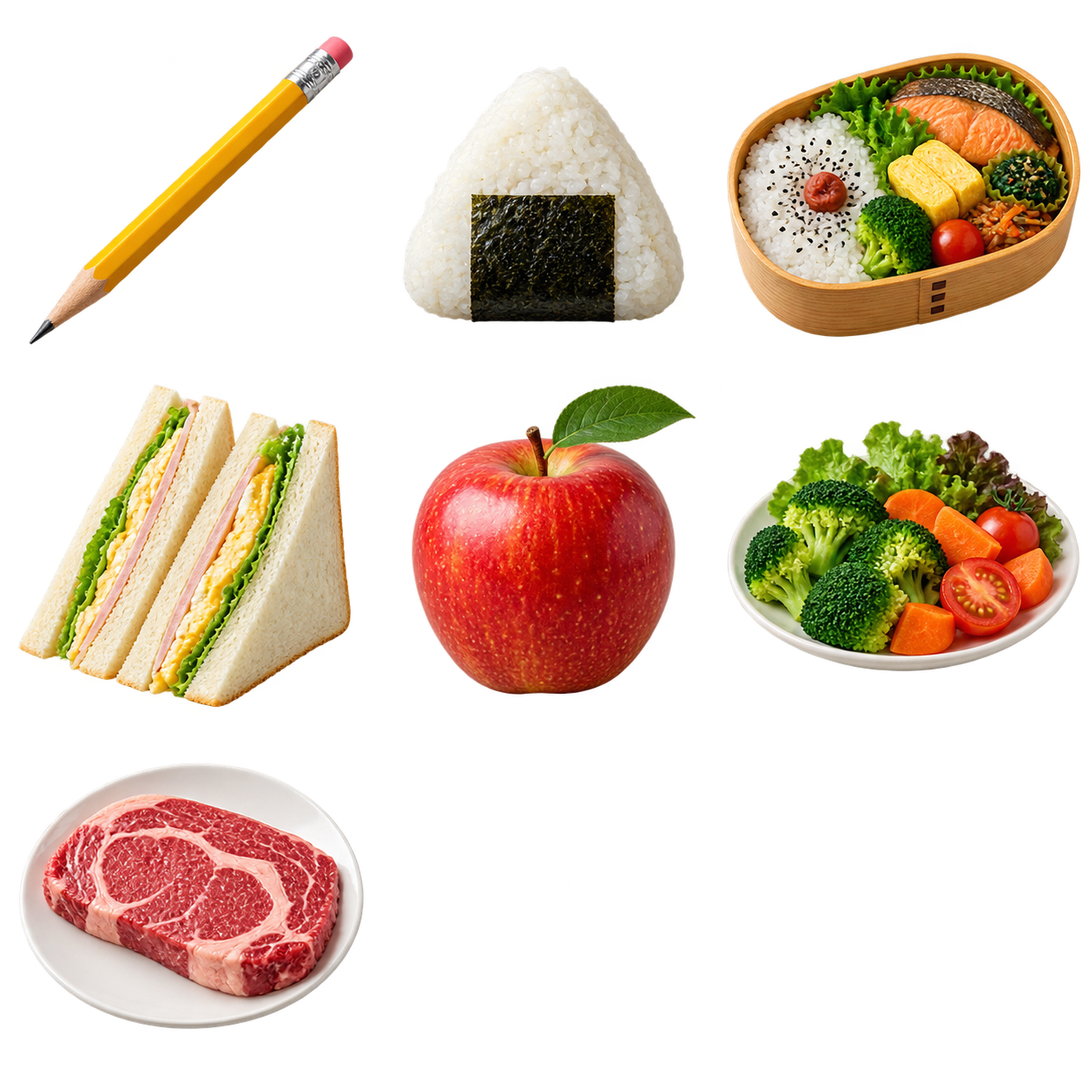
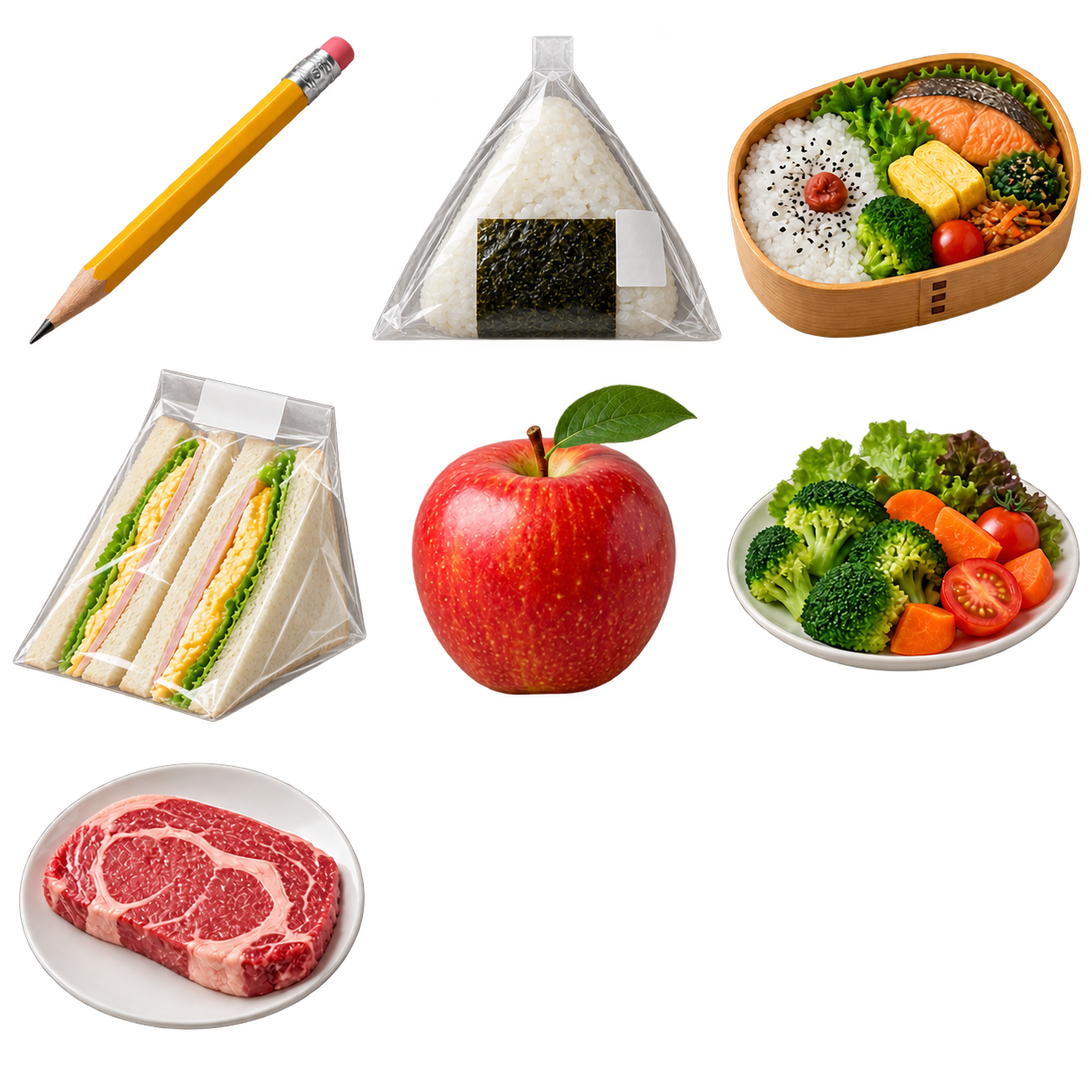
Refine Lesson 2 visuals and require demonstrative price responses

diff --git a/practice2-next.js b/practice2-next.js
@@ -10,7 +10,7 @@ const PracticeNext = (()=>{
         {hira:'たけし',kanji:'たけし',romaji:'Takeshi',meaning:'Takeshi (green sweater)',kind:'person-takeshi'},
         {hira:'ロバート',kanji:'ロバート',romaji:'Robāto',meaning:'Robert (red sweater)',kind:'person-robert'}
     ];
-    const readings=[['弁当','べんとう'],['六百円','ろっぴゃくえん'],['九百円','きゅうひゃくえん'],['四百円','よんひゃくえん'],['帽子','ぼうし'],['四千円','よんせんえん'],['人','ひと'],['誰','だれ'],['私','わたし'],['武','たけし'],['三万円','さんまんえん'],['3万円','さんまんえん'],['3千円','さんぜんえん'],['2千円','にせんえん'],['3百円','さんびゃくえん'],['円','えん'],['30000円','さんまんえん'],['30,000円','さんまんえん'],['三千円','さんぜんえん'],['3000円','さんぜんえん'],['3,000円','さんぜんえん'],['二千円','にせんえん'],['2000円','にせんえん'],['2,000円','にせんえん'],['三百円','さんびゃくえん'],['300円','さんびゃくえん'],['千円','せんえん']];
+    const readings=[['五千円','ごせんえん'],['六千円','ろくせんえん'],['八千円','はっせんえん'],['九千円','きゅうせんえん'],['一万円','いちまんえん'],['弁当','べんとう'],['六百円','ろっぴゃくえん'],['九百円','きゅうひゃくえん'],['四百円','よんひゃくえん'],['帽子','ぼうし'],['四千円','よんせんえん'],['人','ひと'],['誰','だれ'],['私','わたし'],['武','たけし'],['三万円','さんまんえん'],['3万円','さんまんえん'],['3千円','さんぜんえん'],['2千円','にせんえん'],['3百円','さんびゃくえん'],['円','えん'],['30000円','さんまんえん'],['30,000円','さんまんえん'],['三千円','さんぜんえん'],['3000円','さんぜんえん'],['3,000円','さんぜんえん'],['二千円','にせんえん'],['2000円','にせんえん'],['2,000円','にせんえん'],['三百円','さんびゃくえん'],['300円','さんびゃくえん'],['千円','せんえん']];
     return {items:[...Practice21.items,...places,...people],places,people,readings};
 })();
 // Practice 2.2 / 2.3: visual demonstratives. Recorder/settings derived from Practice 1.2.
@@ -300,7 +300,7 @@ function stopAllPlayback() {
 // このページの語彙の読みを正規化する。
 function convertToHiragana(text) {
     let value=String(text??'');
-    value=value.replace(/(\d[\d,]*)(?:円|えん)/g,(full,amount)=>({30000:'さんまんえん',3000:'さんぜんえん',2000:'にせんえん',300:'さんびゃくえん',1000:'せんえん',4000:'よんせんえん',600:'ろっぴゃくえん',900:'きゅうひゃくえん'}[Number(amount.replace(/,/g,''))]||full));
+    value=value.replace(/(\d[\d,]*)(?:円|えん)/g,(full,amount)=>({30000:'さんまんえん',3000:'さんぜんえん',2000:'にせんえん',300:'さんびゃくえん',1000:'せんえん',4000:'よんせんえん',600:'ろっぴゃくえん',900:'きゅうひゃくえん',5000:'ごせんえん',6000:'ろくせんえん',8000:'はっせんえん',9000:'きゅうせんえん',10000:'いちまんえん'}[Number(amount.replace(/,/g,''))]||full));
     for(const [from,to] of [...PracticeNext.items.map(o=>[o.kanji,o.hira]),...PracticeNext.readings].sort((a,b)=>b[0].length-a[0].length)) value=value.split(from).join(to);
     return value.replace(/鞄/g,'かばん').replace(/何/g,'なに');
 }
@@ -1215,8 +1215,8 @@ function practice2ShowNotice(resultSpan, message) {
     });
     const merchandise=(kind)=>{
         const base={bag:['かばん','カバン','kaban','bag'],clock:['とけい','時計','tokei','clock / watch'],onigiri:['おにぎり','おにぎり','onigiri','rice ball'],bento:['おべんとう','お弁当','obentō','boxed lunch']}[kind];
-        const values=kind==='onigiri'?[300,600,900]:kind==='bento'?[1000,2000,3000]:[1000,3000,4000];
-        const names={300:['さんびゃくえん','三百円'],600:['ろっぴゃくえん','六百円'],900:['きゅうひゃくえん','九百円'],1000:['せんえん','千円'],2000:['にせんえん','二千円'],3000:['さんぜんえん','三千円'],4000:['よんせんえん','四千円']};
+        const values=kind==='onigiri'?[300,600,900]:kind==='bento'?[1000,2000,3000]:kind==='clock'?[6000,9000,10000]:[2000,5000,8000];
+        const names={5000:['ごせんえん','五千円'],6000:['ろくせんえん','六千円'],8000:['はっせんえん','八千円'],9000:['きゅうせんえん','九千円'],10000:['いちまんえん','一万円'],300:['さんびゃくえん','三百円'],600:['ろっぴゃくえん','六百円'],900:['きゅうひゃくえん','九百円'],1000:['せんえん','千円'],2000:['にせんえん','二千円'],3000:['さんぜんえん','三千円'],4000:['よんせんえん','四千円']};
         return values.map((priceNumber,i)=>({kind,hira:base[0],kanji:base[1],romaji:base[2],meaning:base[3],zone:['A','B','far'][i],photoKind:kind,priceNumber,priceHira:names[priceNumber][0],priceKanji:names[priceNumber][1]}));
     };
     const places=()=>PracticeNext.places.map(o=>({...o}));
@@ -1258,6 +1258,12 @@ function practice2ShowNotice(resultSpan, message) {
         image.alt=!is22?'Three comic panels: A is on the first floor at the bank, B on the second floor at the cafe, and neither is on the third floor at the library.':people?'A is seated on the left and B on the right. Mary is near A, Takeshi is near B, and Robert is far from both.':hats?'Rear view of A on the left and B on the right, with a baseball cap near A, a sun hat near B, and a fedora on the upper central shelf.':'A stands on the left beside a nearby shelf, B stands on the right beside another nearby shelf, and a third shelf is far from both at the back of the shop.';
         if(photoKind)image.alt=`A stands on the left and B on the right, seen from behind. ${photoKind==='onigiri'?'Three groups of two rice balls':photoKind==='bento'?'Three groups of two boxed lunches':photoKind==='bag'?'Three differently shaped bags':'Three differently shaped clocks and watches'}: one near A, one near B, and one on the upper shelf far from both.`;
         image.width=shop?1774:is22?1536:2172;image.height=shop?887:is22?1024:724;stage.append(image);
+        if(is22&&example&&!people) {
+            for(const zone of ['A','B','far']) {
+                const reach=node('div','p2x-reach');reach.dataset.reach=zone;reach.setAttribute('aria-hidden','true');stage.append(reach);
+                const foreground=node('img','p2x-photo p2x-reach-foreground');foreground.src=image.src;foreground.alt='';foreground.dataset.zone=zone;foreground.setAttribute('aria-hidden','true');stage.append(foreground);
+            }
+        }
         if(!is22) {
             PracticeNext.places.forEach((place,i)=>{
                 const label=node('div','p2x-floor-label');label.dataset.zone=place.zone;
@@ -1311,7 +1317,14 @@ function practice2ShowNotice(resultSpan, message) {
             }
         }
         if(which) {
-            const guide=node('div','p2x-unknown-guide');guide.append(node('strong','','ど：'),node('span','','Asking about the unknown'));picture.append(guide);
+            if(is22) {
+                const guide=node('div','p21-which-guide');
+                const heading=node('strong');heading.append(node('span','p21-question-sound','ど：'),node('span','p21-question-description','Asking about the unknown'));guide.append(heading);
+                guide.insertAdjacentHTML('afterbegin','<svg class="p21-thought-cloud" viewBox="0 0 300 110" preserveAspectRatio="none" aria-hidden="true"><path d="M35 20C35 7 65 2 82 12C96-1 130-1 145 10C165-1 197 1 208 13C230 5 261 13 261 28C286 30 295 50 279 62C291 78 270 92 248 87C231 101 200 96 189 87C170 99 139 99 124 88C102 99 72 96 62 85C34 91 12 78 21 61C4 45 10 26 35 20Z"/></svg>');
+                const dots=node('span','p21-thought-dots');dots.setAttribute('aria-hidden','true');stage.append(guide,dots);
+            } else {
+                const guide=node('div','p2x-unknown-guide');guide.append(node('strong','','ど：'),node('span','','Asking about the unknown'));picture.append(guide);
+            }
         }
         if(hats)stage.append(context);else picture.append(context);picture.append(stage);if(example&&!hats)picture.append(audioGrid);container.append(picture);
         function select(speaker,zone) {
@@ -1363,7 +1376,7 @@ function practice2ShowNotice(resultSpan, message) {
             }
         }
         box.append(list);d1.append(box);selectExample('A','A');
-        if(is22)renderPriceDialogue(d1,selectExample,exObjects);
+        if(is22)renderPriceDialogue(d1);
         else {
         panel(d1,is22?'Drill 1: この・その・あの + noun':'Drill 1: Describe each place',is22?'💡A, then B: Name each object and say its price.':(practice2State.describeSet===1?'💡A, then B: Say where each object is.':'💡A, then B: Name the three places.'));
         const set1=setButtons(d1,['Set 1','Set 2'],'describeSet');
@@ -1380,24 +1393,21 @@ function practice2ShowNotice(resultSpan, message) {
         }
         renderDialogue();renderChoosing();
     }
-    function renderPriceDialogue(d1,selectExample,exObjects) {
-        panel(d1,'Drill 1: Ask the price','💡A, then B: Ask each price. Your partner answers.');
-        const sample=exObjects[0],mini=node('section','example-box p2x-dialogue-example');
+    function renderPriceDialogue(d1) {
+        panel(d1,'Drill 1: Ask the price','💡A asks three prices. B answers with この／その／あの + noun and the price.');
+        const set=setButtons(d1,[word('かばん','カバン'),word('とけい','時計')],'describeSet'),objects=merchandise(set===0?'bag':'clock'),select=scene(d1,objects);
+        const sample=objects[0],mini=node('section','example-box p2x-dialogue-example');
         mini.append(node('h3','','Example'));
         const q=node('p'),r=node('p');
-        q.append(node('strong','','A · Question: '),listen(()=>{selectExample('A','A');return question(adnominal('A',sample),'いくら');},'A🔊きく'),modelText(()=>question(adnominal('A',sample),'いくら'),sample));
-        r.append(node('strong','','B · Response: '),listen(()=>{selectExample('B','A');return short(price(sample));},'B🔊きく'),modelText(()=>short(price(sample))));mini.append(q,r);d1.append(mini);
-        const set=setButtons(d1,[word('かばん','カバン'),word('とけい','時計')],'describeSet'),objects=merchandise(set===0?'bag':'clock'),select=scene(d1,objects);
-        for(const asker of ['A','B']) {
-            const answerer=asker==='A'?'B':'A',order=[...objects].sort((a,b)=>['こ','そ','あ'].indexOf(sound(asker,a.zone))-['こ','そ','あ'].indexOf(sound(asker,b.zone)));
-            order.forEach((o,i)=>{
-                const current=card(d1,`${asker}${i+1}`),prefix=`p22_price_s${set}_${asker}_${i}`;
-                const q=recordingRow(current,'q',`<strong>${asker} · Question:</strong> ${demonstrative(asker,o)}／${vocabulary(o)}／${formatWord('いくら','いくら','ikura','how much')}`,prefix+'_q',()=>question(adnominal(asker,o),'いくら'));
-                practice2State.replyReferences[prefix+'_r']=()=>[statement(adnominal(answerer,o),price(o))];
-                const r=recordingRow(current,'a',`<strong>${answerer} · Response:</strong> …`,prefix+'_r',()=>short(price(o)));
-                attach(q,asker,o,select);attach(r,answerer,o,select);
-            });
-        }
+        q.append(node('strong','','A · Question: '),listen(()=>{select('A','A');return question(adnominal('A',sample),'いくら');},'A🔊きく'),modelText(()=>question(adnominal('A',sample),'いくら'),sample));
+        r.append(node('strong','','B · Response: '),listen(()=>{select('B','A');return statement(adnominal('B',sample),price(sample));},'B🔊きく'),modelText(()=>statement(adnominal('B',sample),price(sample)),sample));mini.append(q,r);d1.append(mini);
+        objects.forEach((o,i)=>{
+            const current=card(d1,String(i+1)),prefix=`p22_price_s${set}_A_${i}`;
+            const q=recordingRow(current,'q',`<strong>A · Question:</strong> ${demonstrative('A',o)}／${vocabulary(o)}／${formatWord('いくら','いくら','ikura','how much')}`,prefix+'_q',()=>question(adnominal('A',o),'いくら'));
+            // Demonstrative change is the task: a bare price cannot satisfy this exercise.
+            const r=recordingRow(current,'a','<strong>B · Response:</strong> …',prefix+'_r',()=>statement(adnominal('B',o),price(o)));
+            attach(q,'A',o,select);attach(r,'B',o,select);
+        });
     }
     function renderFoodChoosing(d3) {
         panel(d3,'Drill 3: どの + noun','💡Ask which group has that price. Answer with この／その／あの + noun.');

diff --git a/style.css b/style.css
@@ -2524,7 +2524,7 @@ body.site-scale {
 /* Final placement: keep annotations inside the scene and naming items neutral. */
 .p21-distance-area[data-zone="A"] .p21-area-caption { margin-top: 3px; }
 .p21-distance-area[data-zone="B"] .p21-area-caption { margin-top: 3px; }
-#drill2Container .p21-drill-item { filter: grayscale(1); }
+#drill2Container .p21-drill-item { filter: none; }
 .p21-which-guide { position: absolute; z-index: 4; top: 4px; right: 10px; max-width: 40%; margin: 0; color: #dc2626; text-align: right; text-shadow: 0 1px 2px #fff9; }
 .p21-which-guide strong { display: flex; flex-direction: column; align-items: center; text-align: center; }
 .p21-question-sound { font-size: 28px; line-height: 1; }
@@ -2652,3 +2652,21 @@ body.site-scale {
 .p2x-hat-picture .p2x-unknown-guide { top: auto; bottom: 2%; right: 2%; }
 .p2x-hat-picture:not(.p2x-example-picture) .p2x-speaker-guide { gap: 8px; }
 .p2x-hat-picture .p2x-unknown-guide { left: 50%; right: auto; transform: translateX(-50%); max-width: 60%; }
+/* Practice 2.1 object sizing: keep the hanging shirt clear of the table. */
+.practice21-page:not(.practice-next-page) .p21-drill-item[data-kind="tshirt"] { width: 20%; left: 40%; top: -1%; }
+.practice21-page:not(.practice-next-page) .p21-drill-item[data-set="1"][data-kind="notebook"] { width: 12%; left: 21.5%; }
+.practice21-page:not(.practice-next-page) .p21-drill-item[data-set="1"][data-kind="pencil"] { width: 12%; left: 68%; }
+/* Practice 2.2: proximity colors below the photographed hats and annotations. */
+.p2x-reach { position: absolute; z-index: 1; pointer-events: none; border-radius: 45%; }
+.p2x-reach[data-reach="A"] { left: 9%; top: 28%; width: 36%; height: 41%; background: rgb(37 99 235 / 19%); }
+.p2x-reach[data-reach="B"] { left: 56%; top: 28%; width: 36%; height: 41%; background: rgb(22 163 74 / 19%); }
+.p2x-reach[data-reach="far"] { left: 35%; top: 4%; width: 30%; height: 28%; background: rgb(194 65 12 / 17%); }
+.p2x-picture[data-speaker="B"] .p2x-reach[data-reach="A"] { background: rgb(22 163 74 / 19%); }
+.p2x-picture[data-speaker="B"] .p2x-reach[data-reach="B"] { background: rgb(37 99 235 / 19%); }
+.p2x-reach-foreground { z-index: 2; pointer-events: none; }
+.p2x-hat-picture .p21-which-guide { top: 2px; right: 10px; max-width: 30%; }
+/* Preserve only hat silhouettes above the colored regions. */
+.p2x-reach-foreground[data-zone="A"] { clip-path: polygon(21.5% 52.5%,21.8% 47%,23% 44%,25% 42%,27% 42%,29% 44%,30% 48%,32.4% 52%,32% 54.5%,29% 54.8%,27.5% 53.5%,25.5% 54%,22% 53.5%); }
+.p2x-reach-foreground[data-zone="B"] { clip-path: polygon(66% 51%,69.5% 49%,70% 44%,71% 41%,74% 40%,76% 42%,77.5% 48%,82% 51%,81% 54%,77% 56%,71% 56%,66% 54%); }
+.p2x-reach-foreground[data-zone="far"] { clip-path: polygon(44% 23%,46% 21%,46.5% 14%,48% 10%,50% 12%,52% 10%,54% 13%,54.5% 21%,56% 23%,55% 25%,45% 25%); }
+.p2x-hat-picture .p21-thought-dots { left: 66%; top: 27%; }

diff --git a/docs/PRACTICE22_23_SPEC.md b/docs/PRACTICE22_23_SPEC.md
@@ -10,7 +10,7 @@
 - 写真の人物・物・背景は固定し、A／Bのきく・とる・フォーカスで話者表示を切り替える。Who is speaking?は2.2 Exampleでは画像内の独立した最前面、その他は写真の外側に表示する。2.2 ExampleではA／BのPlaying中に背景の濃淡を1.2秒周期で継続し終了・中断時に解除。その他のExampleは1.2秒×3回。reduced-motionでは静的な一時強調。
 - Exampleの写真は広幅75％、Drillの写真は60％。900px以下では100％。2.2 Exampleの文はAの3文／Bの3文の2群（600px以下で縦並び）。2.2 Exampleのきくボタンは各帽子に対応した画像内の空き領域にA／B縦並びで配置。Whoは2.1同様に画像左上2％。こはAの肩の右、そはBの肩の左、あは上段帽子の右。その他のページのモデル文3群は900px以下で縦並び、再生ボタンは写真下の3列。
 - Set切り替えはそのセクションの画像・モデル・判定を切り替え、スクロール位置とフォーカスを保つ。準備／録音中は禁止。録音・認識・判定はページ内のセット／話者／行ごとに保持し、戻れば復元。再読込を越えた保存は追加しない。
-- 会話応答は短い自然な返答をモデルにし、正しい全文・部分補完も登録した範囲で許容する。明示した指示語・人名・品名・所有者・場所は一致が必要。無関係な文を削って正解にはしない。単独文作成の必須要素は減らさない。
+- 会話応答は短い自然な返答をモデルにし、正しい全文・部分補完も登録した範囲で許容する。明示した指示語・人名・品名・所有者・場所は一致が必要。無関係な文を削って正解にはしない。単独文作成の必須要素は減らさない。例外として2.2 D1は指示表現の交代が学習目標のため、指示表現＋名詞＋価格を必須とし、価格だけの短答は許容しない。
 
 ## 2.2 この・その・あの・どの
 
@@ -19,9 +19,9 @@
 - 基本形は「このスマホは、さんまんえんです。」等。この／その／あのの直後に名詞が必要なことを見出しで示す。所有者を尋ねるだれのですかは導入しない。
 - 値段の文で進める案を提示し、選択の返答がないため、ユーザーへの進捗報告で値段を前提とする初期実装と明示した。値段以外を希望された場合はこの部分を調整する。
 - 品物用の写真はassets/practice22-shelves.png。Aは左、Bは右に立って棚の商品を見る。左右に各人物の手が届く近い陳列棚、中央奥に両者から離れた棚を置く。棚の写真と商品PNG・値札・A／B・説明を分離し、D1・D3で同じ背景を使用する（Exampleは下記の帽子画像へ更新）。人物用のD2と2.3の画像は変更しない。
-- Exampleは採用画像③を基にしたassets/practice22-hats.png（2:1）。後ろ姿の二人を左右へ離し、下段左のキャップ1,000円、下段右のつば広帽子3,000円、上段中央の中折れ帽4,000円を示す。三つとも名詞は帽子。写真に帽子を含め、語彙Hover・値札はHTMLで重ねる。指定の英文説明段落は削除し、見出しのみ残す。Drillの品物・画像は今回維持。A／Bそれぞれ3文、計6文。画像の価格は数字、本文はScript Modeに応じた読み／漢字。話者が替わるとこの／そのを入れ替え、奥の棚はあののままとする。
-- Drill 1は値段の会話。帽子の短い会話例を添え、各セットでA3問・B3問、各問に質問行と返答行を置く。質問は「このカバンはいくらですか」、モデル返答は「せんえんです」。正しい返答者視点の主題を補った全文も許容する。Y/Nにはしない。
-- Set 1は形の違うカバン3点（リュック・手提げ・ショルダー）、Set 2は時計3点（置時計2種・腕時計）。A側1,000円、B側3,000円、上段4,000円。Exampleと同じ後ろ姿・分離棚2:1構図を使用する。
+- Exampleは採用画像③を基にしたassets/practice22-hats.png（2:1）。後ろ姿の二人を左右へ離し、下段左のキャップ1,000円、下段右のつば広帽子3,000円、上段中央の中折れ帽4,000円を示す。三つとも名詞は帽子。写真に帽子を含め、語彙Hover・値札はHTMLで重ねる。指定の英文説明段落は削除し、見出しのみ残す。こ／そ／あの色領域を追加。色は話者A/Bに連動し、帽子・文字・操作は領域より上。A／Bそれぞれ3文、計6文。画像の価格は数字、本文はScript Modeに応じた読み／漢字。話者が替わるとこの／そのを入れ替え、奥の棚はあののままとする。
+- Drill 1は値段の会話。選択セットの品物・価格で短い会話例を添え、各セットはA質問→B返答の3組のみ。質問「このカバンはいくらですか」→返答「そのカバンは、にせんえんです」。指示表現の交代が練習点のため、会話の既知部分省略という共通仕様の承認済み例外とする。価格だけの短答は不可、誤った指示表現・品名・価格も不可。Y/Nにはしない。
+- Set 1は形の違うカバン3点（リュック・手提げ・ショルダー）、Set 2は時計3点（置時計2種・腕時計）。カバンはA側2,000円・B側5,000円・上段8,000円、時計は6,000円・9,000円・10,000円。Exampleと同じ後ろ姿・分離棚2:1構図を使用する。
 
 ### Drill 2：この人はだれですか
 
@@ -35,7 +35,7 @@
 - Set 1おにぎり、Set 2おべんとう。同じ品名のものを各位置に2個ずつ並べた3群。価格は群全体の合計と英文で明記。おにぎりはA側300円・B側600円・上段900円、おべんとうは1,000円・2,000円・3,000円。
 - 各セットに短い会話例。A3問・B3問、各問に質問・返答の2行。「どのおにぎりが、さんびゃくえんですか」→返答者視点の「そのおにぎりです」。正しい指示語＋名詞は必須で、「そのです」は不可。正しい「そのおにぎりが三百円です」「そのおにぎりは三百円です」も許容。
 - どのを含む主語には「が」を使用し、価格・品名・がの一致を確認する。色による指定・所有物の質問はこのページのD3では使用しない。2.3のD3は従来仕様を維持。
-- 単数／複数で名詞とこの／その／あのの形を変えないことを短く補足。数詞・助数詞の発話は課題に追加しない。どの案内は値札を隠さない画像右下へ。語彙ヒント、話者表示、録音・判定・リレー、セット別結果保持は継承。
+- 単数／複数で名詞とこの／その／あのの形を変えないことを短く補足。数詞・助数詞の発話は課題に追加しない。どの案内は2.1と同じ雲形・赤系・どの文字と説明の縦配置、画像右上へ。小さい丸は短い棚の右端付近に置く。語彙ヒント、話者表示、録音・判定・リレー、セット別結果保持は継承。
 
 
 ## 2.3 ここ・そこ・あそこ・どこ
@@ -73,14 +73,19 @@
 
 - scripts/genki-kanji-usage.cjsの対象を2.2・2.3へ拡張。通常のモデル・問題・選択肢を使用ページの対象とし、許容する追加文や学習者の発話履歴は集計しない。
 - tests/practice2-next.cjsでモデルの文体／文字モード、役割交代、名詞必須、誤答の拒否、短答／全文、録音・セットの保持、幅600／900／1440px・通常／ダーク・語彙モードを確認。共通の表示・音声リレー検証にも追加する。
-- 新しい写真上の位置・品物の分かりやすさ、だれの課題の負担、価格文の採否、通話・階の理解、ブラウザの実音・実認識は公開後に実機確認。写真内の文字や服装はScript Modeの対象外。
+- 新しい写真上の位置・品物の分かりやすさ、人物課題の負担、価格文の難易度、通話・階の理解、ブラウザの実音・実認識は公開後に実機確認。写真内の文字や服装はScript Modeの対象外。
 
-## 2.2の棚画像への更新（2026-10-27）
+## 2.2の棚画像（2026-10-27）
 
-- 品物用だけを着席の机写真から、立って棚を見る店内写真へ差し替え。画像は2:1で表示し、既存の75％／60％・900px以下100％の幅方針を維持する。
-- 商品の幅は画像の11％、奥は遠近感に合わせ8％。価格は読める大きさを維持して商品下に表示。こ／そ／あの説明は背景の棚・床側に置き、幅600pxでも説明の末尾を写真の外へ切らない。
-- A／Bのきく、モデル文、品物・価格、正答条件、録音・結果保持・セット構成は変更しない。D2の人物写真と2.3の3コマは維持する。
+- 帽子・カバン・時計・おにぎり・おべんとうの5写真は、後ろ姿の二人と分離棚の2:1構図。上段棚は下段1枚に近い長さ。75％／60％・900px以下100％の幅方針を維持する。
+- 品物は写真に含め、語彙ヒント・値札・A/B・ガイドをHTMLで重ねる。値札は対象の上。Ex1の帽子と文字・操作は色領域より上へ表示する。
+- D2の人物写真と2.3の3コマは維持する。モデル・価格・正答条件・会話数は各節の現行仕様を正とする。
 
-- 2.2 Example配置調整（2026-10-27）：値札は各帽子の真上、こ・そは下段棚の直下、あの再生ボタンは上段帽子の左。600px以下では画像内の重複を避けWhoと再生ボタンをコンパクトにし、下段の再生ペアを画像下部へ寄せる。色領域の追加、見出し文言とD1の会話化は今回提案のみ。
+- 2.2 Example配置調整（2026-10-27）：値札は各帽子の真上、こ・そは下段棚の直下、あの再生ボタンは上段帽子の左。600px以下では画像内の重複を避けWhoと再生ボタンをコンパクトにし、下段の再生ペアを画像下部へ寄せる。色領域とD1の会話化は実装済み。
 
 - ページ・Indexの名称：2.1「これ・それ・あれ・どれ — Demonstrative Pronouns」、2.2「この・その・あの・どの — Demonstrative Adjectives」。
+
+## 学習目的と共通仕様が衝突する場合
+- 指示表現の交代などの学習目標を、会話の省略等の共通仕様が弱める場合は、機械的に共通仕様を適用しない。変更前に「練習点・衝突する仕様・例外案・正答の許容範囲」を説明してユーザーへ確認する。承認済みの個別例外は再確認しない。
+- 今回の承認済み例外は2.2 D1の指示表現＋名詞＋価格の完全返答。2.1や2.3等の既存の短答ルールへ自動拡張しない。
+- 2.2の棚写真5種（帽子・カバン・時計・おにぎり・おべんとう）は、上段を下段1枚に近い短い棚へ統一する。

diff --git a/docs/UI_LAYOUT_SPEC.md b/docs/UI_LAYOUT_SPEC.md
@@ -169,7 +169,10 @@ L1・L2ページはHiragana初期表示。練習2のWith漢字は参考漢字表
 ### 2.2 Exampleの画像内配置（2026-10-27追記）
 - 説明英文段落を削除。Whoは2.1と同じ左上2％、こはA肩右、そはB肩左、あは上段帽子右へ。きく3組も画像内に配置。文はA3文／B3文の2列、600px以下は縦並び。
 
-- 2.2 Example配置調整（2026-10-27）：値札は各帽子の真上、こ・そは下段棚の直下、あの再生ボタンは上段帽子の左。600px以下では画像内の重複を避けWhoと再生ボタンをコンパクトにし、下段の再生ペアを画像下部へ寄せる。色領域の追加、見出し文言とD1の会話化は今回提案のみ。
+- 2.2 Example配置調整（2026-10-27）：値札は各帽子の真上、こ・そは下段棚の直下、あの再生ボタンは上段帽子の左。600px以下では画像内の重複を避けWhoと再生ボタンをコンパクトにし、下段の再生ペアを画像下部へ寄せる。色領域とD1の会話化は実装済み。
 
 ### 2.2会話セットと食品群（2026-10-27）
-- D1：カバン・時計、D3：複数のおにぎり・おべんとう。2:1の分離棚構図を共通にし、セットに応じた写真を切り替える。Whoは画像左上、値札は対象の上。D3ど案内は食品・価格・Bラベルを隠さない画像下部中央。画像にモデル音ボタンは付けず各会話行のきく・とる・停止を使う。各セット6会話。
+- D1：カバン・時計、D3：複数のおにぎり・おべんとう。2:1の分離棚構図を共通にし、セットに応じた写真を切り替える。Whoは画像左上、値札は対象の上。D3ど案内は2.1と同じ雲形・赤系で画像右上。画像にモデル音ボタンは付けず各会話行のきく・とる・停止を使う。D1は各セットA→B3会話、D3は各セット6会話。
+
+### 練習2の領域・棚・カラー（2026-10-27）
+- 2.1 D2は全画像カラー、D1はTシャツ幅20％・ノートと鉛筆12％。2.2 Ex1は話者連動の色領域と品物の上重ね、棚写真5種は短い上段。D3どは2.1と同じ雲形・赤系・右上、丸は短い棚端付近。2.2 D1は各セット3会話。

diff --git a/docs/PROJECT_SPEC.md b/docs/PROJECT_SPEC.md
@@ -964,3 +964,12 @@ Voice変更時の旧モデル曲線消去は実装済み。モデル文変更時
 ## 85. 練習2.1 D2 Set 2を衣料品へ（2026-10-27）
 - りんご・野菜・肉を撤回し、くつ・ジーンズ・トレーナーへ変更。靴一足、ポケット・脚が見える折り畳みデニム、長袖・クルーネック・袖口が見えるトレーナーを使用。棚と机に自然に置ける物を採用する。
 - モデル・許容全文・語彙ヒント・参考漢字・仕様と監査枠を更新。スマホ・辞書・財布のD3専用、全18品名の課題間重複なしは維持。
+
+## 86. 練習2の画像・領域・価格会話の調整（2026-10-27）
+- 2.1 D1のTシャツを拡大し机との間を確保、ノート・鉛筆を縮小。D2の白黒CSSを撤去しカラー表示、おにぎり・サンドイッチを透明包装のコンビニ商品風へ。
+- 2.2 Ex1へ話者連動のこ／そ／あ色領域を追加し、品物・文字・ボタンを上に表示。棚写真5種は上段を下段1枚に近い長さへ。D3のど案内は2.1と同じ雲形・赤系・画像右上に統一。
+- ユーザーのEx2は現在のD1価格会話を指すと確認済み。各セットA→Bの3会話へ。価格はカバン2,000／5,000／8,000円、時計6,000／9,000／10,000円。指示表現の交代が練習点のため返答は「そのカバンは、にせんえんです」等を必須とし、価格のみ短答は不可。
+
+## 87. 学習目的と共通仕様の例外確認（2026-10-27）
+- 省略等の共通仕様が指示表現の交代等の練習点を弱める場合、変更前に練習点・衝突仕様・例外案・正答許容範囲を説明して確認する。承認済み個別例外を再確認しない。
+- 2.2 D1の指示表現＋名詞＋価格は今回承認済みの例外。他ページの自然な短答を無断で完全返答へ変えない。

diff --git a/docs/PRACTICE2_SPEC.md b/docs/PRACTICE2_SPEC.md
@@ -121,7 +121,7 @@ Script Modeに応じて本・カバン・時計へ切り替える。Formalはで
 | 1 | おにぎり | おべんとう | サンドイッチ |
 | 2 | くつ | ジーンズ | トレーナー |
 
-- D2は色による指定が不要なため、全品物をグレースケールで表示。ヒントや読み上げに色名を含めない。
+- D2の品物はカラー表示。色による正答指定は行わず、ヒントや読み上げに色名を含めない。グレースケール指定は撤去。
 - 背景は空の天板・棚の写真practice21-shelf-table.png。棚上にも品物を重ね、こ／そ／あの色領域・Object番号は設けない。写真は広幅60％／900px以下100％。全品物に語彙ヒント。
 - Set切り替えと録音保持はDrill 1同様。namingSetで選択状態を保持し、録音キーはDrill 2専用に分離する。
 
@@ -215,3 +215,5 @@ Script Modeに応じて本・カバン・時計へ切り替える。Formalはで
 | D3 Set 1／2／3 | スマホ／じしょ／さいふ |
 
 18品名を重複なく配置。D1の鉛筆とD2食品はpractice21-food-items.png（3×3）を使用。D2 Set 2はpractice21-clothing-items.pngを使い、A側くつ一足、B側は畳んだジーンズ、棚は長袖・襟・袖口を見せたトレーナー。Hiragana初期、参考漢字は鉛筆・お弁当・靴。りんご・野菜・肉は教材の使用語から除く。
+
+- 2.1サイズ調整（2026-10-27）：D1 Tシャツは幅17％→20％、上端寄りで机との間を確保。Set 2のノート・鉛筆は14％→12％。D2のおにぎり・サンドイッチは透明包装のコンビニ商品風に変更し、中身が見える画像を使う。
